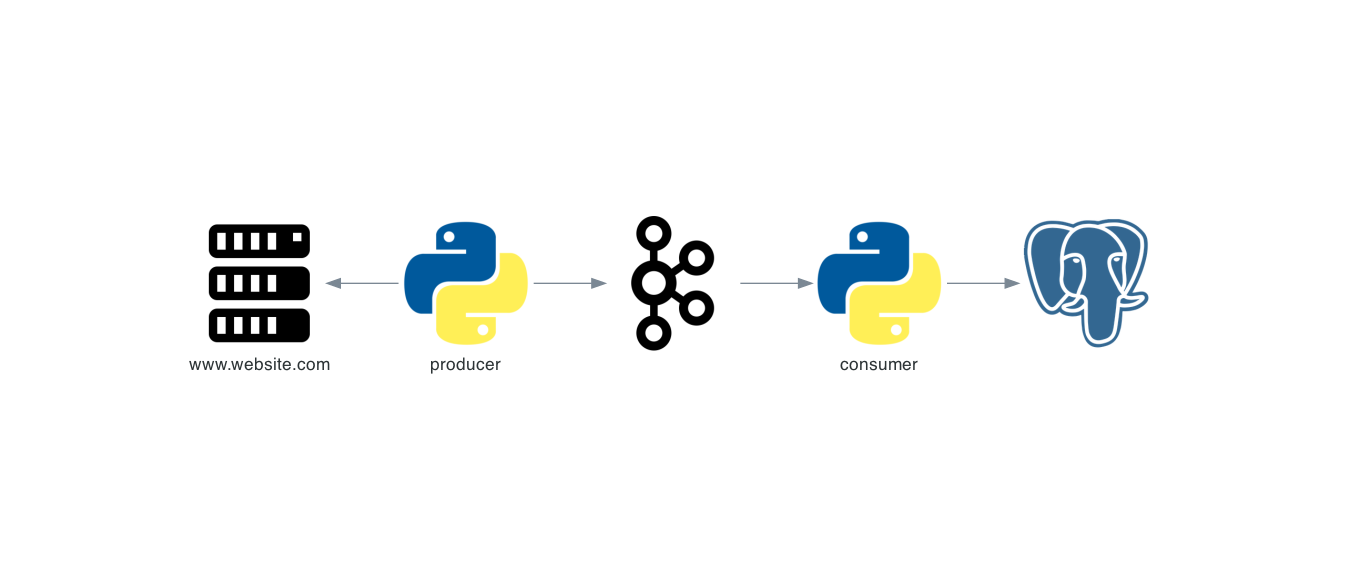
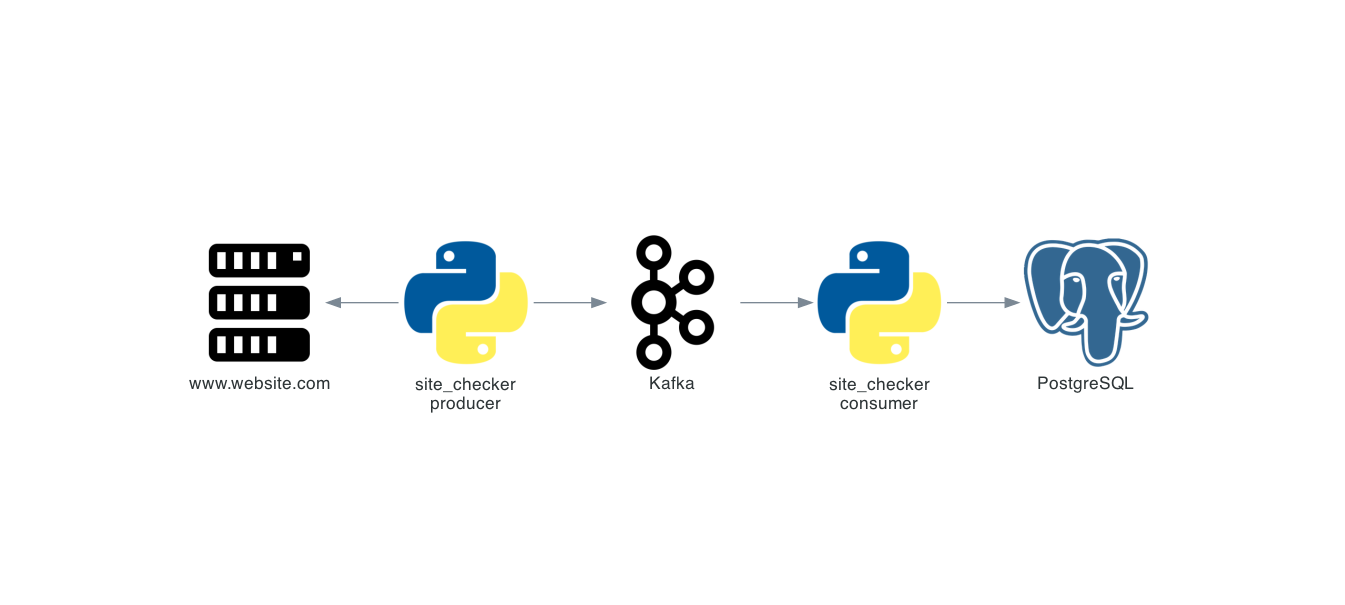
Add Production deployment section to README

diff --git a/docs/diagram.py b/docs/diagram.py
@@ -1,16 +1,49 @@
 from diagrams import Diagram
 from diagrams.onprem.compute import Server
+from diagrams.onprem.container import Docker
 from diagrams.onprem.database import Postgresql
 from diagrams.onprem.queue import Kafka
 from diagrams.programming.language import Python
 
 with Diagram(filename="docs/site_checker_architecture"):
 
-    kafka = Kafka()
-    postgres = Postgresql()
-    producer = Python("producer")
-    consumer = Python("consumer")
+    kafka = Kafka("Kafka")
+    postgres = Postgresql("PostgreSQL")
+    producer = Python("site_checker\nproducer")
+    consumer = Python("site_checker\nconsumer")
     website = Server("www.website.com")
 
     website << producer
     producer >> kafka >> consumer >> postgres
+
+with Diagram(filename="docs/site_checker_config_ini"):
+
+    kafka = Kafka("Kafka")
+    postgres = Postgresql("PostgreSQL")
+    producer = Python("site_checker\nproducer")
+    consumer = Python("site_checker\nconsumer")
+    websites = [Server(f"www.website_{n}.com\nTherad-{n}") for n in range(3)]
+
+    websites << producer
+    producer >> kafka >> consumer >> postgres
+
+
+with Diagram(filename="docs/site_checker_cli_parameters"):
+
+    kafka = Kafka("Kafka")
+    postgres = Postgresql("PostgreSQL")
+    consumer = Python("site_checker\nconsumer")
+
+    producer1 = Docker("site_checker\nproducer_1")
+    producer2 = Docker("site_checker\nproducer_2")
+    producer3 = Docker("site_checker\nproducer_3")
+
+    website1 = Server("www.website_1.com")
+    website2 = Server("www.website_2.com")
+    website3 = Server("www.website_3.com")
+
+    website1 << producer1 >> kafka
+    website2 << producer2 >> kafka
+    website3 << producer3 >> kafka
+
+    kafka >> consumer >> postgres

diff --git a/README.md b/README.md
@@ -24,6 +24,8 @@ This section will guide you through the steps to reproduce locally the demo pres
 
 This tutorial expects you have already a `Kafka` and `Postgres` instance running. For more details please check, [How to set up managed Apache Kafka](https://www.youtube.com/watch?v=YH-S3Huwfms) and [How to deploy an open source database](https://www.youtube.com/watch?v=t95IQ0kpbFY).
 
+Last request before start 🙏, On the Aiven Kafka dashboard, please go to  **Overview tab** to the **Advanced configuration** section and enable the `kafka.auto_create_topics_enable` parameter which will allow you to produce messages to Kafka without needing to create a topic beforehand.
+
 1. Checkout this repository:
 
 ```sh
@@ -65,5 +67,34 @@ $ select * from site_checker.apache;
 ```sh
 $ make clean
 ```
+
+## Production deployment
+
+### Configuration approaches
+
+- `config.ini`, can check multiple websites, for more details please check the [example/example.
+- docker `.env` or `CLI parameters`, checks a single website, for more details please check the [example/example.producer.env](example/example.producer.env) file.
+### Scalability considerations
+
+- The `config.ini` configuration approach will create one `thread` per website. In case you want to run `site_checker` in a single host to check multiple websites the performance will be limited by the host resources, too many websites or threads can cause too many switch context operations leading to performance impacts.
+config.ini](example/example.config.ini) file.
+![site_checker_config_ini diagram](docs/site_checker_config_ini.png)
+
+- The `CLI parameters` configuration approach also used in the `Demo`, will create a single python `process`. In case you want to monitor more than one website using this approach, you can build a container using the [Dockerfile](Dockerfile) definition as an starting point, and launch it in your container orchestrator system, e.g: `Kubernetes`, `AWS ECS` or `Mesos`.
+![site_checker_cli_parameters diagram](docs/site_checker_cli_parameters.png)
+### Security considerations
+
+The `site_checker` `consumer` will create automatically one table per topic, for example, topic name `apache` creates the table name `apache` under the schema `site_checker` into the `Postgres` instance. The `Demo` and `Getting Started` are using admin credentials to keep the steps simpler. However, this approach is not suitable for production workloads.
+
+For production it is recommended to create an application user limiting the usage only to the `site_checker` schema.
+Example:
+
+```sql
+CREATE USER site_checker WITH PASSWORD '<STRONGPASSWORD>';
+GRANT USAGE ON SCHEMA site_checker TO site_checker;
+GRANT CREATE ON SCHEMA site_checker TO site_checker;
+GRANT INSERT ON ALL TABLES IN SCHEMA site_checker TO site_checker;
+```
+
 ## Contribute
 For more detail, please check [CONTRIBUTING.md](CONTRIBUTING.md) guide.
